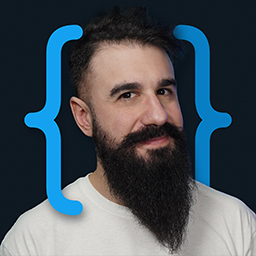
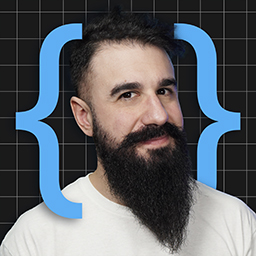
Rebranding [WIP]

diff --git a/link_bio/assets/css/styles.css b/link_bio/assets/css/styles.css
@@ -1,5 +1,9 @@
 body {
-    background-color: #0C151D;
+    background-color: #1A1A1A;
+}
+
+a:hover {
+    color: #3EB0F9 !important;
 }
 
 @keyframes blinker {

diff --git a/link_bio/link_bio/styles/styles.py b/link_bio/link_bio/styles/styles.py
@@ -11,8 +11,7 @@ BOUNCEIN_ANIMATION = "animate__animated animate__bounceIn"
 # Sizes
 
 STYLESHEETS = [
-    "https://fonts.googleapis.com/css2?family=Poppins:wght@300;500&display=swap",
-    "https://fonts.googleapis.com/css2?family=Comfortaa:wght@500&display=swap",
+    "https://fonts.googleapis.com/css2?family=Poppins:wght@400;500;800&display=swap",
     "https://cdnjs.cloudflare.com/ajax/libs/animate.css/4.1.1/animate.min.css",
     "/css/styles.css"
 ]
@@ -43,53 +42,57 @@ class Spacing(Enum):
 
 BASE_STYLE = {
     "font_family": Font.DEFAULT.value,
-    "font_weight": FontWeight.LIGHT.value,
-    "background_color": Color.BACKGROUND.value,
+    "font_weight": FontWeight.REGULAR.value,
+    "background_color": Color.DARK.value,
     rx.heading: {
-        "color": TextColor.HEADER.value,
-        "font_family": Font.TITLE.value,
+        "color": TextColor.LIGHT.value,
+        "font_family": Font.DEFAULT.value,
         "font_weight": FontWeight.MEDIUM.value
     },
+    # rx.button: {
+    #     "width": "100%",
+    #     "height": "100%",
+    #     "padding": Size.SMALL.value,
+    #     "border_radius": Size.DEFAULT.value,
+    #     "color": TextColor.LIGHT.value,
+    #     "background_color": Color.DARK.value,
+    #     "white_space": "normal",
+    #     "text_align": "start",
+    #     "--cursor-button": "pointer",
+    #     "_hover": {
+    #         "background_color": Color.PRIMARY.value
+    #     }
+    # },
     rx.button: {
         "width": "100%",
         "height": "100%",
-        "padding": Size.SMALL.value,
-        "border_radius": Size.DEFAULT.value,
-        "color": TextColor.HEADER.value,
-        "background_color": Color.CONTENT.value,
-        "white_space": "normal",
-        "text_align": "start",
-        "--cursor-button": "pointer",
+        "font_weight": FontWeight.MEDIUM.value,
+        "cursor": "pointer",
+        # "padding_x": "32px",
+        # "padding_y": "16px",
+        "white_space": "nowrap",
+        "transition": "transform 0.05s ease",
+        "color": Color.DARK.value,
+        "border": f"1px solid {Color.LIGHT.value}",
+        "box_shadow": f"3px 3px 0px 0px {Color.LIGHT.value}",
         "_hover": {
-            "background_color": Color.SECONDARY.value
+            "color": Color.LIGHT.value,
+            "background": Color.DARK.value,
+            "box_shadow": "none",
+            "transform": "translate(3px, 3px)"
         }
     },
     rx.link: {
-        "color": TextColor.BODY.value,
+        "color": TextColor.LIGHT.value,
         "text_decoration": "none",
+        ""
         "_hover": {}
     }
 }
 
-navbar_title_style = dict(
-    font_family=Font.LOGO.value,
-    font_weight=FontWeight.MEDIUM.value,
-    font_size=Size.LARGE.value
-)
-
 title_style = dict(
     width="100%",
     padding_top=Size.DEFAULT.value,
-    font_size=Size.LARGE.value
-)
-
-button_title_style = dict(
-    font_family=Font.TITLE.value,
-    font_weight=FontWeight.MEDIUM.value,
-    color=TextColor.HEADER.value,
-)
-
-button_body_style = dict(
-    font_weight=FontWeight.LIGHT.value,
-    color=TextColor.BODY.value
+    font_size=Size.LARGE.value,
+    font_weight=FontWeight.BOLD.value,
 )

diff --git a/link_bio/link_bio/views/header.py b/link_bio/link_bio/views/header.py
@@ -1,6 +1,7 @@
 import reflex as rx
 import datetime
 import link_bio.constants as const
+from link_bio.styles.fonts import FontWeight
 from link_bio.styles.styles import Size, Spacing
 from link_bio.styles.colors import Color, TextColor
 from link_bio.components.link_icon import link_icon
@@ -37,8 +38,8 @@ def header(details=True) -> rx.Component:
                     size=Spacing.MEDIUM_BIG.value,
                     src="/avatar.jpg",
                     radius="full",
-                    color=TextColor.BODY.value,
-                    bg=Color.CONTENT.value,
+                    color=TextColor.LIGHT.value,
+                    bg=Color.DARK.value,
                     padding="2px",
                     border=f"4px solid {Color.PRIMARY.value}"
                 ),
@@ -47,6 +48,7 @@ def header(details=True) -> rx.Component:
             rx.vstack(
                 rx.heading(
                     "Brais Moure",
+                    font_weight=FontWeight.BOLD.value,
                     size=Spacing.BIG.value
                 ),
                 rx.text(
@@ -104,11 +106,11 @@ def header(details=True) -> rx.Component:
                     ),
                     rx.spacer(),
                     info_text(
-                        "100+", "aplicaciones creadas"
+                        "150+", "aplicaciones creadas"
                     ),
                     rx.spacer(),
                     info_text(
-                        "2M+", "seguidores"
+                        "2.5M+", "seguidores"
                     ),
                     width="100%"
                 ),
@@ -146,7 +148,7 @@ def header(details=True) -> rx.Component:
                     Aquí podrás encontrar todos mis enlaces de interés ¡Bienvenid@!
                     """,
                     font_size=Size.DEFAULT.value,
-                    color=TextColor.BODY.value
+                    color=TextColor.LIGHT.value
                 ),
                 width="100%",
                 spacing=Spacing.BIG.value

diff --git a/link_bio/link_bio/components/link_button.py b/link_bio/link_bio/components/link_button.py
@@ -1,4 +1,5 @@
 import reflex as rx
+from link_bio.styles.colors import Color
 import link_bio.styles.styles as styles
 from link_bio.styles.styles import Size, Spacing
 
@@ -23,13 +24,11 @@ def link_button(title: str,
             rx.vstack(
                 rx.text(
                     title,
-                    size=Spacing.SMALL.value,
-                    style=styles.button_title_style
+                    size=Spacing.SMALL.value
                 ),
                 rx.text(
                     body,
-                    size=Spacing.VERY_SMALL.value,
-                    style=styles.button_body_style
+                    size=Spacing.VERY_SMALL.value
                 ),
                 align_items="start",
                 spacing=Spacing.VERY_SMALL.value,
@@ -39,7 +38,9 @@ def link_button(title: str,
             align="center",
             width="100%"
         ),
-        border=f"{'2px' if highlight_color != None else '0px'} solid {highlight_color}",
+        variant="solid",
+        radius="none",
+        background_color=highlight_color if highlight_color != None else Color.PRIMARY.value,
         class_name=styles.BOUNCEIN_ANIMATION if animated else None,
         on_click=rx.redirect(path=url, is_external=is_external)
     )

diff --git a/link_bio/link_bio/components/footer.py b/link_bio/link_bio/components/footer.py
@@ -9,7 +9,7 @@ from link_bio.styles.colors import Color, TextColor
 def footer() -> rx.Component:
     return rx.vstack(
         rx.image(
-            src="/logo.png",
+            src="/logo_symbol.svg",
             height=Size.VERY_BIG.value,
             width=Size.VERY_BIG.value,
             alt="Logotipo de MoureDev. Una \"eme\" entre llaves."
@@ -38,10 +38,10 @@ def footer() -> rx.Component:
                     alt="Logo GitHub"
                 ),
                 rx.text(
-                    "BUILDING SOFTWARE WITH ♥ FROM GALICIA TO THE WORLD.",
+                    "Building software with ♥ from Galicia to the world.",
                     font_size=Size.MEDIUM.value,
                     margin_top=Size.ZERO.value
-                ),
+                )
             ),
             href=const.REPO_URL,
             is_external=True
@@ -74,5 +74,5 @@ def footer() -> rx.Component:
         padding_bottom=Size.VERY_BIG.value,
         padding_x=Size.BIG.value,
         spacing=Spacing.ZERO.value,
-        color=TextColor.FOOTER.value
+        color=TextColor.LIGHT.value
     )

diff --git a/link_bio/link_bio/components/navbar.py b/link_bio/link_bio/components/navbar.py
@@ -8,15 +8,18 @@ from link_bio.styles.colors import Color
 def navbar() -> rx.Component:
     return rx.hstack(
         rx.link(
-            rx.box(
-                rx.text("moure", as_="span", color=Color.PRIMARY.value),
-                rx.text("dev", as_="span", color=Color.SECONDARY.value),
-                style=styles.navbar_title_style
+            rx.next.image(
+                src="/logo.svg",
+                width="auto",
+                height=Size.LARGE.value,
+                justify="start",
+                alt=f"MoureDev logo"
             ),
             href=Route.INDEX.value
         ),
         position="sticky",
-        bg=Color.CONTENT.value,
+        bg=Color.DARK.value,
+        border_bottom="1px solid rgba(247, 247, 247, 0.2)",
         padding_x=Size.BIG.value,
         padding_y=Size.DEFAULT.value,
         z_index="999",

diff --git a/link_bio/link_bio/components/featured_link.py b/link_bio/link_bio/components/featured_link.py
@@ -9,16 +9,14 @@ def featured_link(featured: Featured) -> rx.Component:
         rx.vstack(
             rx.image(
                 src=featured.image,
-                border_radius=Size.DEFAULT.value,
-                background=Color.CONTENT.value,
+                background=Color.PRIMARY.value,
                 width="100%",
                 height="auto",
                 alt=f"Imagen destacada para: {featured.title}"
             ),
             rx.text(
                 featured.title,
-                size=Spacing.VERY_SMALL.value,
-                style=styles.button_body_style
+                size=Spacing.VERY_SMALL.value
             ),
             spacing=Spacing.SMALL.value,
             align_items="start",

diff --git a/link_bio/link_bio/views/index_links.py b/link_bio/link_bio/views/index_links.py
@@ -26,7 +26,7 @@ def index_links() -> rx.Component:
             "/icons/code.svg",
             Route.COURSES.value,
             False,
-            Color.SECONDARY.value
+            Color.PRIMARY.value
         ),
         link_button(
             "Twitch",
@@ -91,7 +91,7 @@ def index_links() -> rx.Component:
         link_button(
             "MoureDev",
             "Mi sitio web",
-            "/icons/logo.png",
+            "/icons/logo_symbol.svg",
             const.MOUREDEV_URL
         ),
         link_button(

diff --git a/link_bio/link_bio/styles/colors.py b/link_bio/link_bio/styles/colors.py
@@ -2,15 +2,13 @@ from enum import Enum
 
 
 class Color(Enum):
-    PRIMARY = "#14A1F0"
-    SECONDARY = "#087ec4"
-    BACKGROUND = "#0C151D"
-    CONTENT = "#171F26"
-    PURPLE = "#9146ff"
+    LIGHT = "#F7F7F7"
+    DARK = "#1A1A1A"
+    PRIMARY = "#3EB0F9"
+    PURPLE = "#7D00FE"
     PRO = "#FF5500"
 
 
 class TextColor(Enum):
-    HEADER = "#F1F2F4"
-    BODY = "#C3C7CB"
-    FOOTER = "#A3ABB2"
+    LIGHT = "#F7F7F7"
+    DARK = "#1A1A1A"

diff --git a/link_bio/link_bio/views/courses_links.py b/link_bio/link_bio/views/courses_links.py
@@ -14,7 +14,7 @@ def courses_links() -> rx.Component:
             "Practica lógica con ejercicios y proyectos reales",
             "/icons/challenges.png",
             const.CODE_CHALLENGES_URL,
-            highlight_color=Color.SECONDARY.value
+            highlight_color=Color.PRIMARY.value
         ),
         link_button(
             "JavaScript desde cero",

diff --git a/link_bio/link_bio/styles/fonts.py b/link_bio/link_bio/styles/fonts.py
@@ -3,10 +3,9 @@ from enum import Enum
 
 class Font(Enum):
     DEFAULT = "Poppins"
-    TITLE = "Poppins"
-    LOGO = "Comfortaa"
 
 
 class FontWeight(Enum):
-    LIGHT = "300"
+    REGULAR = "400"
     MEDIUM = "500"
+    BOLD = "800"

diff --git a/link_bio/link_bio/components/info_text.py b/link_bio/link_bio/components/info_text.py
@@ -13,5 +13,5 @@ def info_text(title: str, body: str) -> rx.Component:
         ),
         f" {body}",
         font_size=Size.MEDIUM.value,
-        color=TextColor.BODY.value
+        color=TextColor.LIGHT.value
     )
